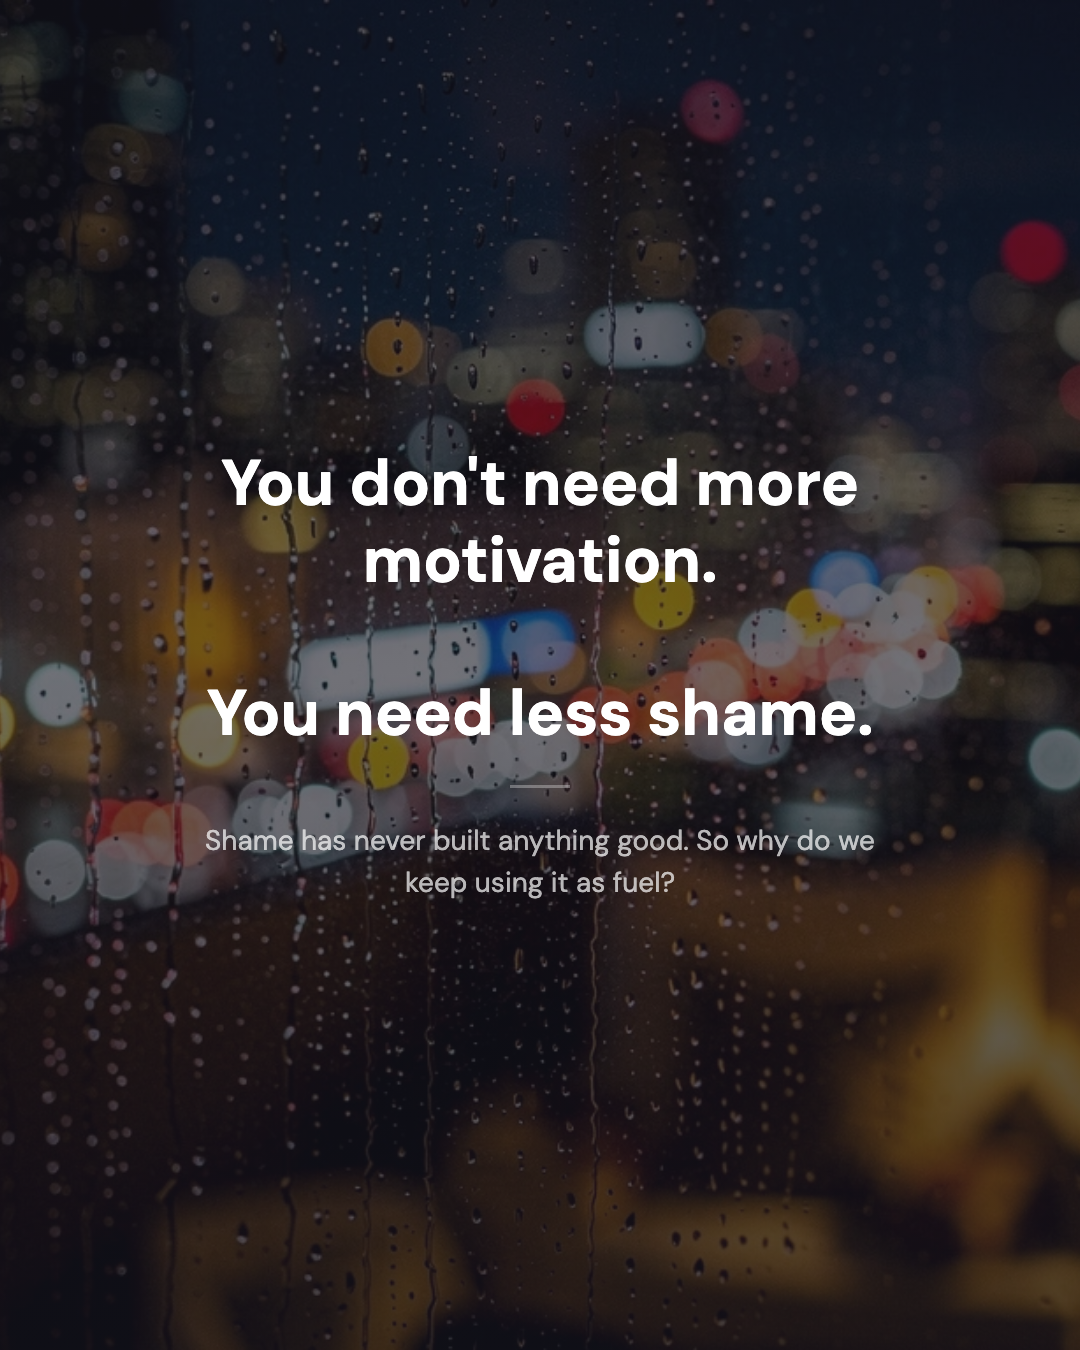
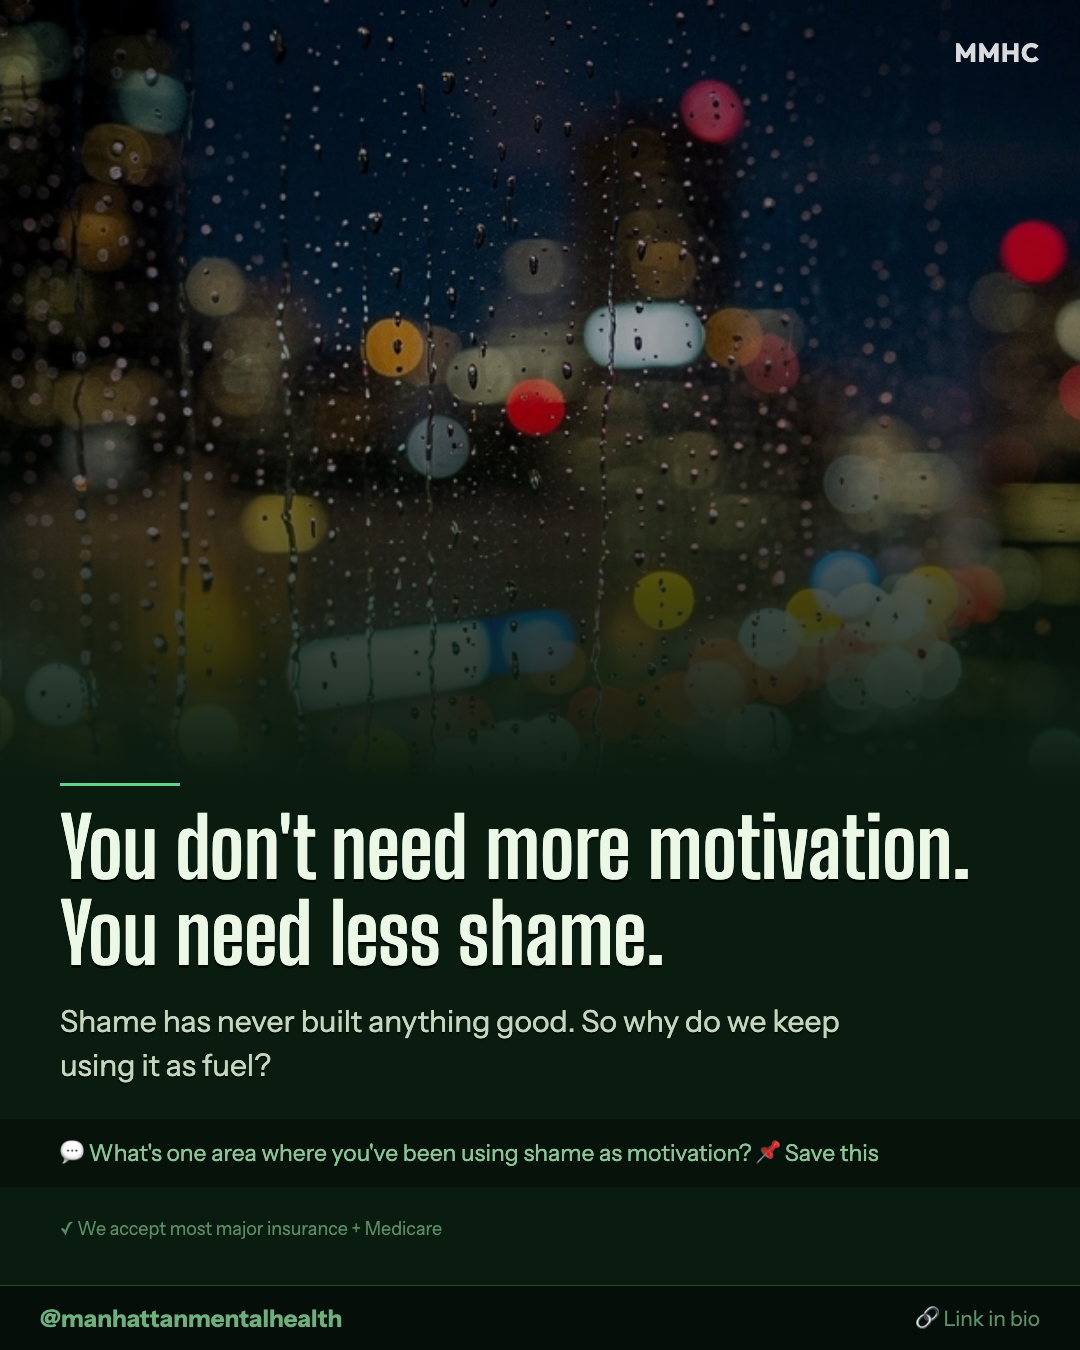
deploy: mmhc-content-factory — 2026-03-04 00:43:03 UTC

diff --git a/index.html b/index.html
@@ -14,7 +14,7 @@ h1{font-size:20px}ul{list-style:none;padding:0}li{padding:8px 0;border-bottom:1p
 <li><a href="finance-tracker/">finance-tracker</a> — Claude Code stress test: 8-file Personal Finance Tracker</li>
 <li><a href="memory-explorer/">memory-explorer</a> — Memory Explorer: searchable markdown file browser</li>
 <li><a href="mmhc-ai-anxiety/">mmhc-ai-anxiety</a> — AI Anxiety page v2 - light hero</li>
-<li><a href="mmhc-content-factory/">mmhc-content-factory</a> — 6 unique templates per post — varied fonts/layouts matching feed grid</li>
+<li><a href="mmhc-content-factory/">mmhc-content-factory</a> — Final organic template: all 8 elements per spec (accent line, CTA bar, insurance badge, handle bar, watermark)</li>
 <li><a href="mmhc-hero-c-therapy/">mmhc-hero-c-therapy</a> — Variant C therapy</li>
 <li><a href="mmhc-hero-final/">mmhc-hero-final</a> — Final hero - verified stats, mobile-tight</li>
 <li><a href="mmhc-hero-variants/">mmhc-hero-variants</a> — 3 hero variants for AI anxiety page</li>
@@ -30,4 +30,4 @@ h1{font-size:20px}ul{list-style:none;padding:0}li{padding:8px 0;border-bottom:1p
 <li><a href="video-knowledge-graph/">video-knowledge-graph</a> — Nav bar added</li>
 <li><a href="war-room/">war-room</a> — War Room ops dashboard</li>
 <li><a href="x-intelligence/">x-intelligence</a> — Live X Intelligence data — 2026-03-03 15:37</li>
-</ul><footer style="margin-top:20px;color:#666;font-size:12px">Last updated: 2026-03-04 00:39:55 UTC</footer></body></html>
+</ul><footer style="margin-top:20px;color:#666;font-size:12px">Last updated: 2026-03-04 00:43:03 UTC</footer></body></html>

diff --git a/mmhc-content-factory/README.md b/mmhc-content-factory/README.md
@@ -1,6 +1,6 @@
 # mmhc-content-factory
 
-Deployed: 2026-03-04 00:39:55 UTC
+Deployed: 2026-03-04 00:43:03 UTC
 Source: /Users/davinci/.openclaw/workspace/projects/mmhc-instagram-factory/deploy-source/
-Description: 6 unique templates per post — varied fonts/layouts matching feed grid
+Description: Final organic template: all 8 elements per spec (accent line, CTA bar, insurance badge, handle bar, watermark)
 URL: https://davinci282828.github.io/projects/mmhc-content-factory/
